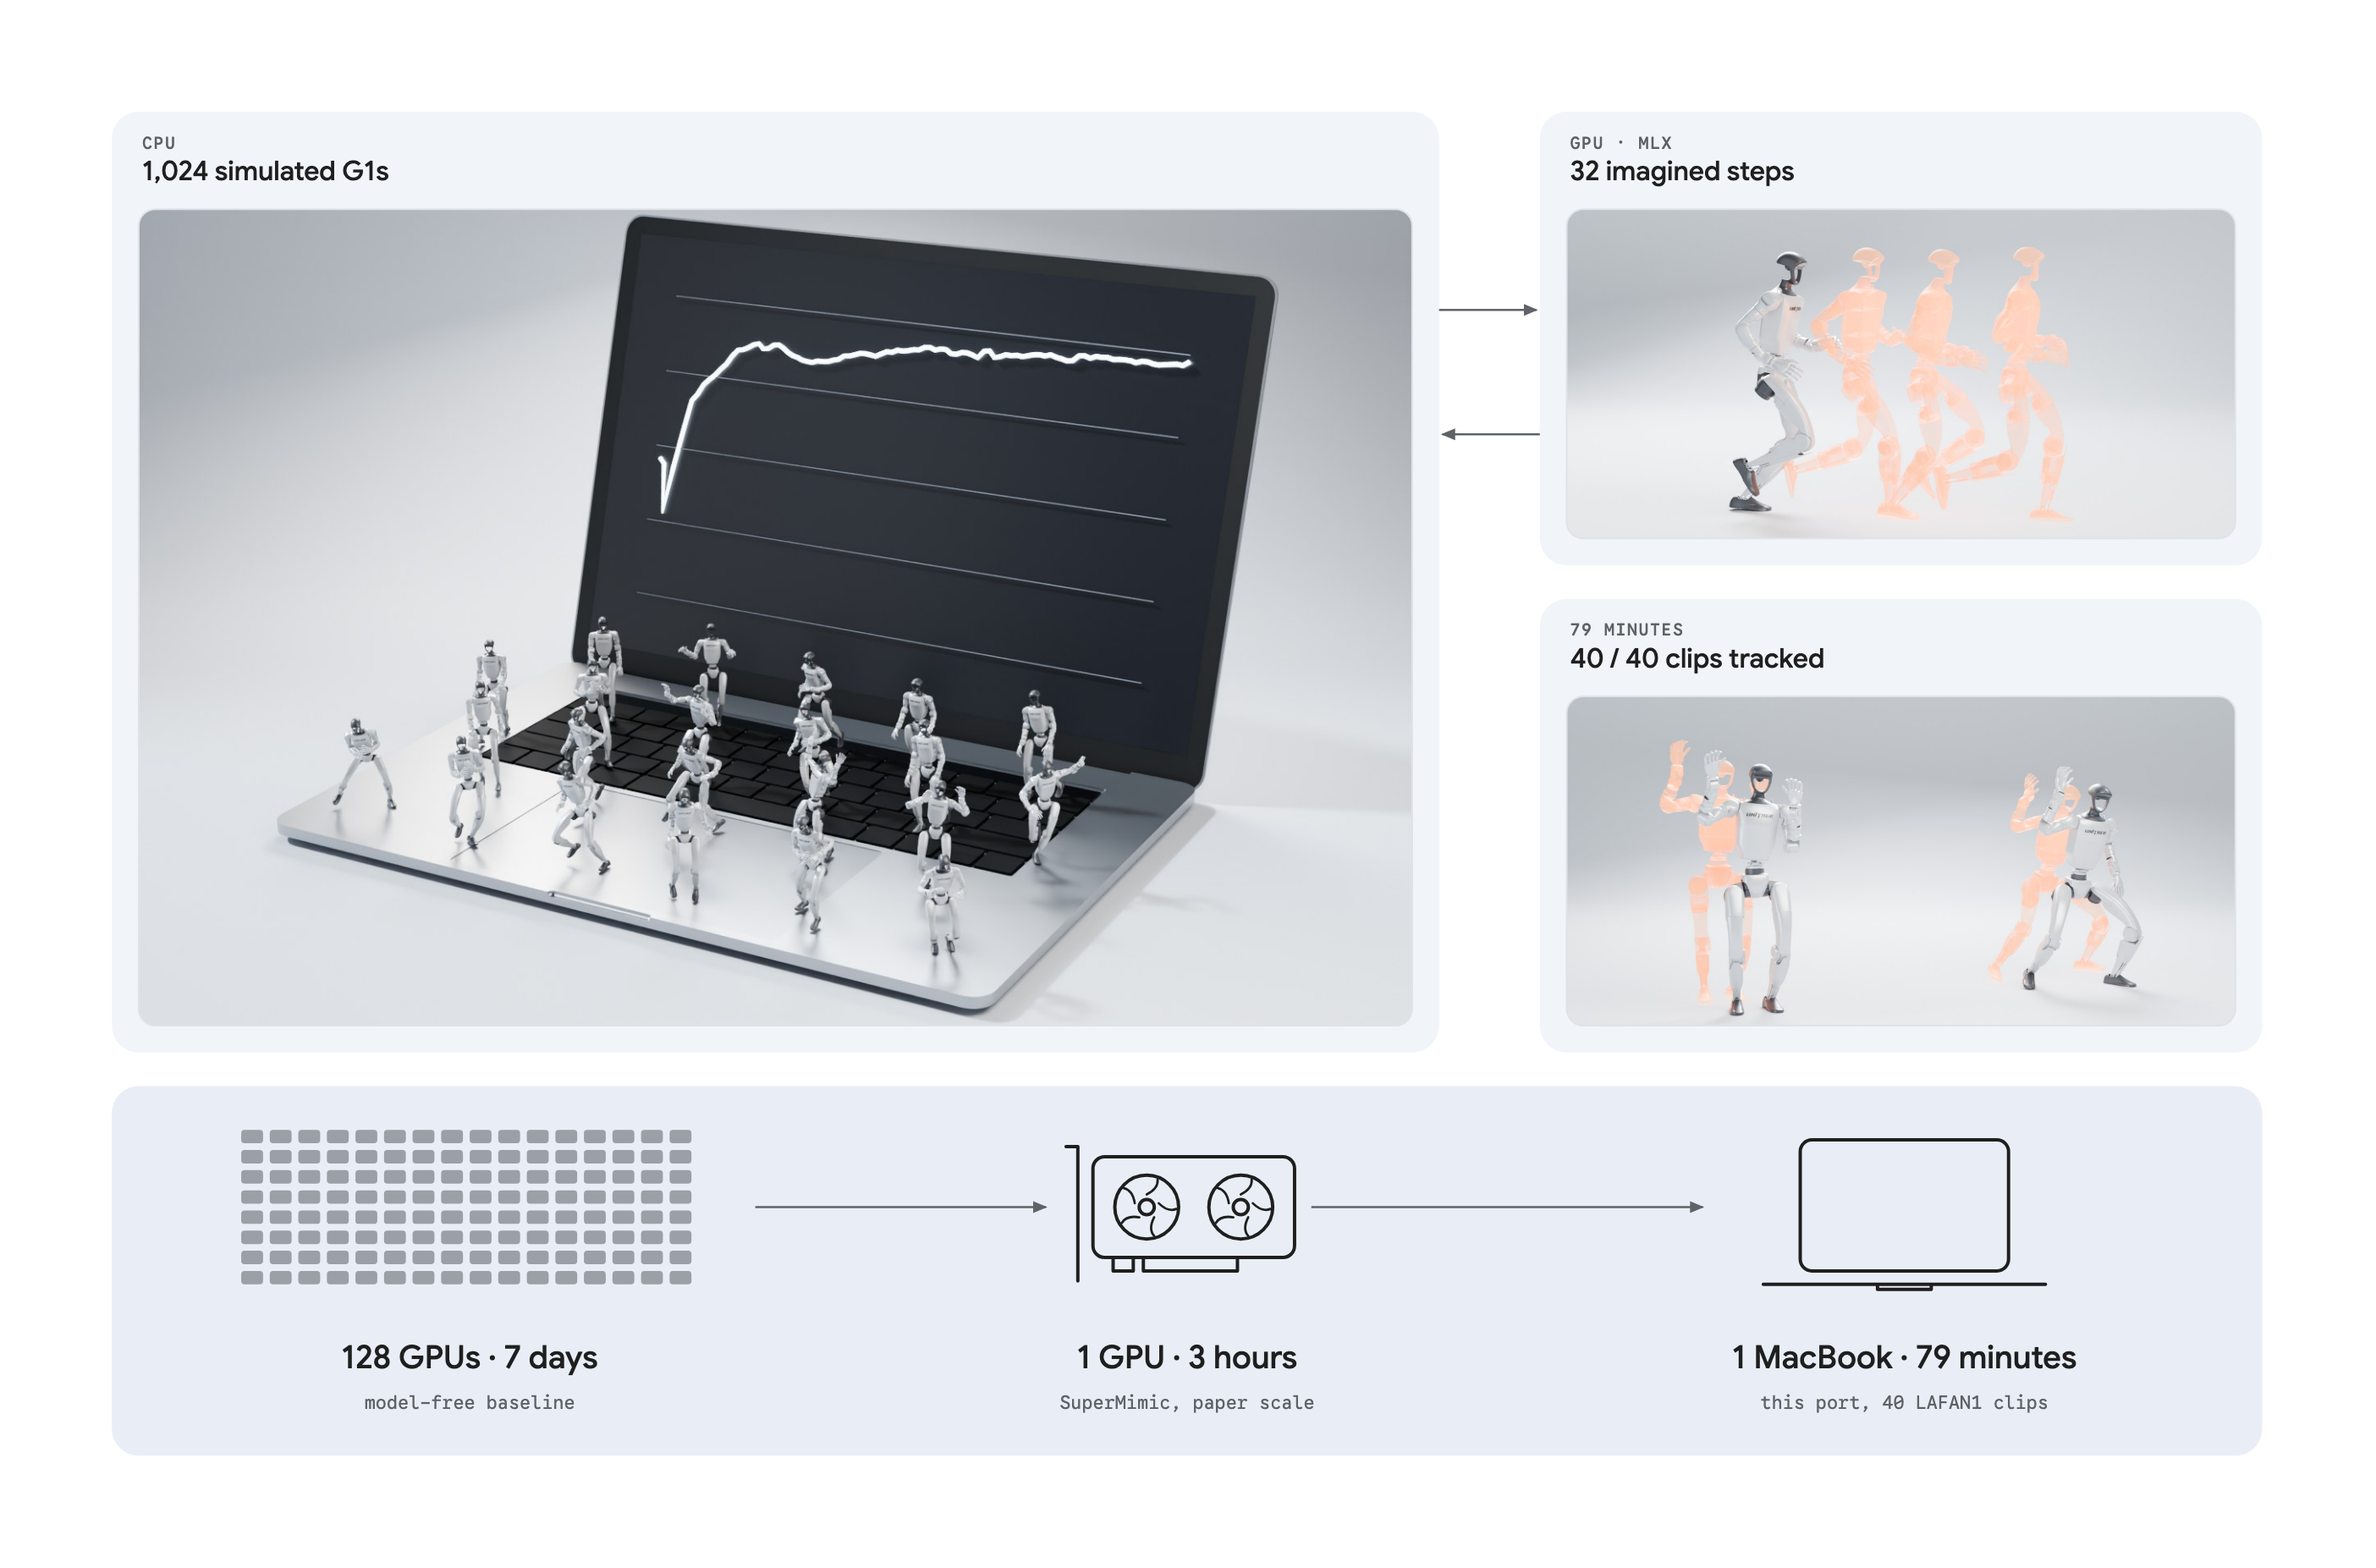
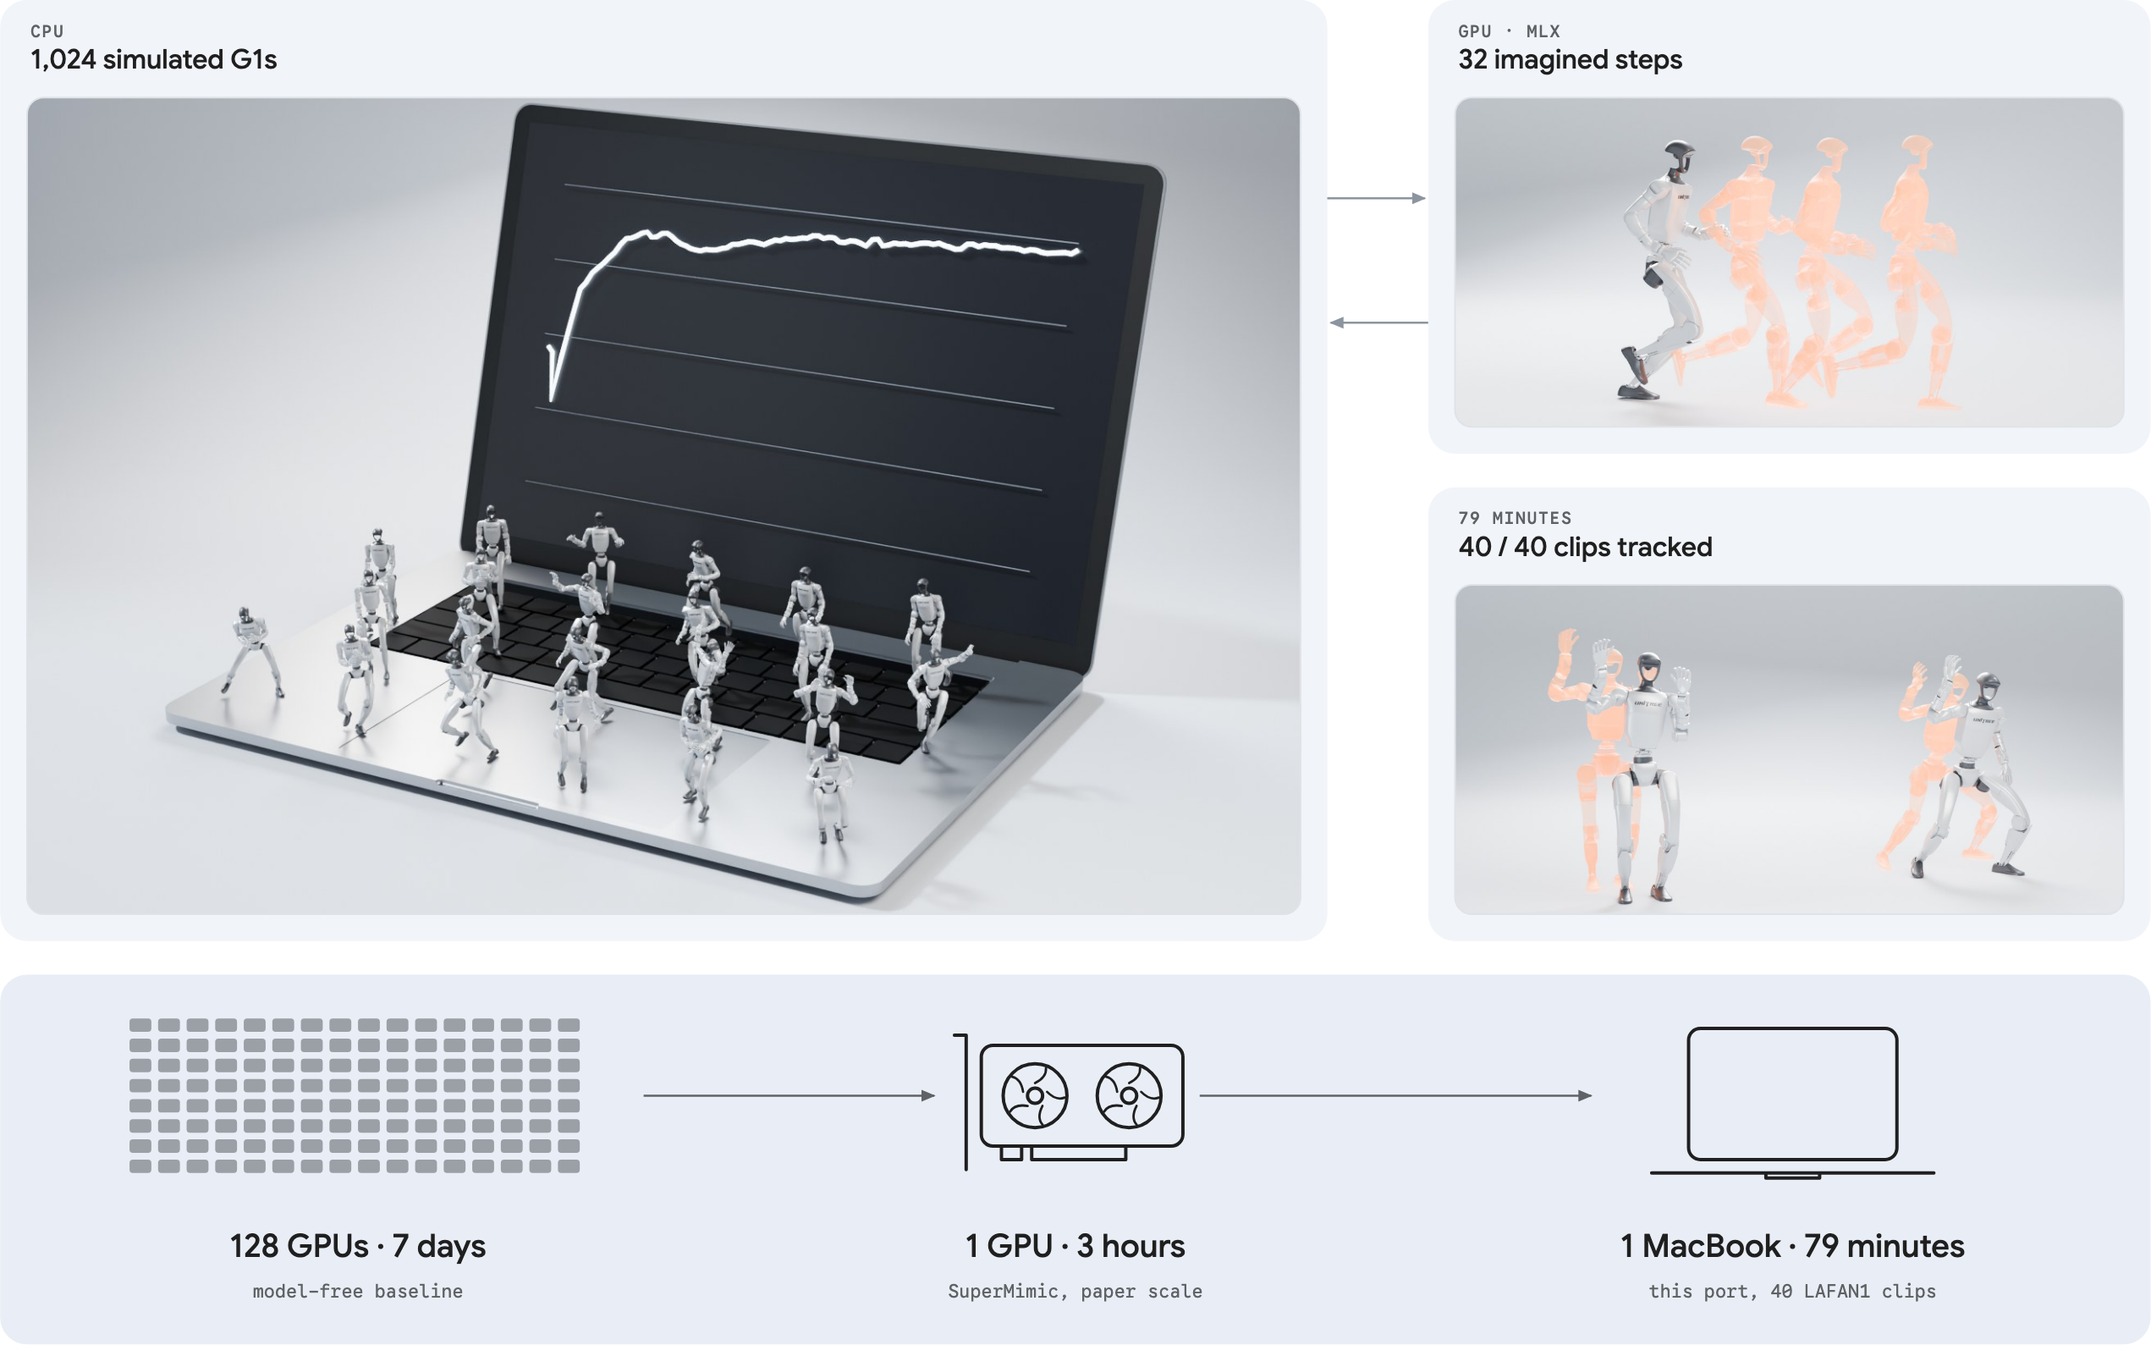
Figure: transparent background, trimmed margins

diff --git a/README.md b/README.md
@@ -11,7 +11,7 @@ M1mic-MLX is [XMimic](https://github.com/nico-bohlinger/xmimic) ported to Apple 
 simulated robots on the CPU cores, and the world model, policy and critic train in [MLX](https://github.com/ml-explore/mlx)
 on the GPU. No NVIDIA stack, no cloud.
 
-<p align="center"><img src="figures/m1mic-mlx.png" width="90%" alt="1,024 simulated G1s on a laptop's CPU, backpropagation through 32 imagined steps on its GPU, and the policy next to its reference after 79 minutes"></p>
+<p align="center"><img src="figures/m1mic-mlx.png" width="100%" alt="1,024 simulated G1s on a laptop's CPU, backpropagation through 32 imagined steps on its GPU, and the policy next to its reference after 79 minutes"></p>
 
 On an M1 Pro with 16 GB, one policy tracks all 40 LAFAN1 clips after **79 minutes** of training, using 2.6 GB of memory.
 
